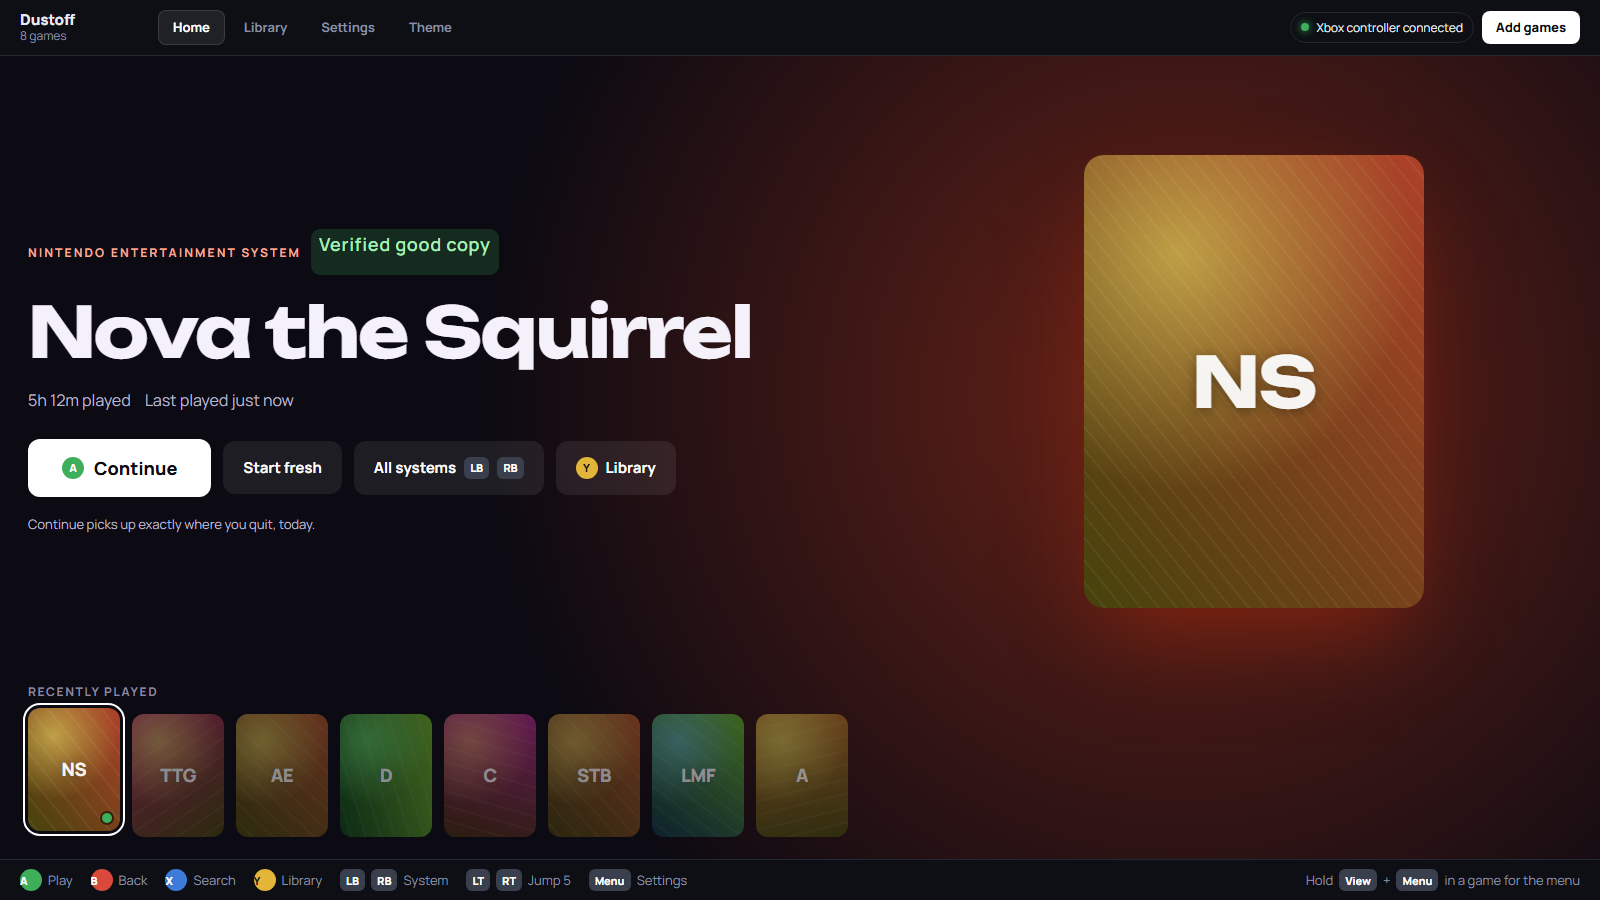
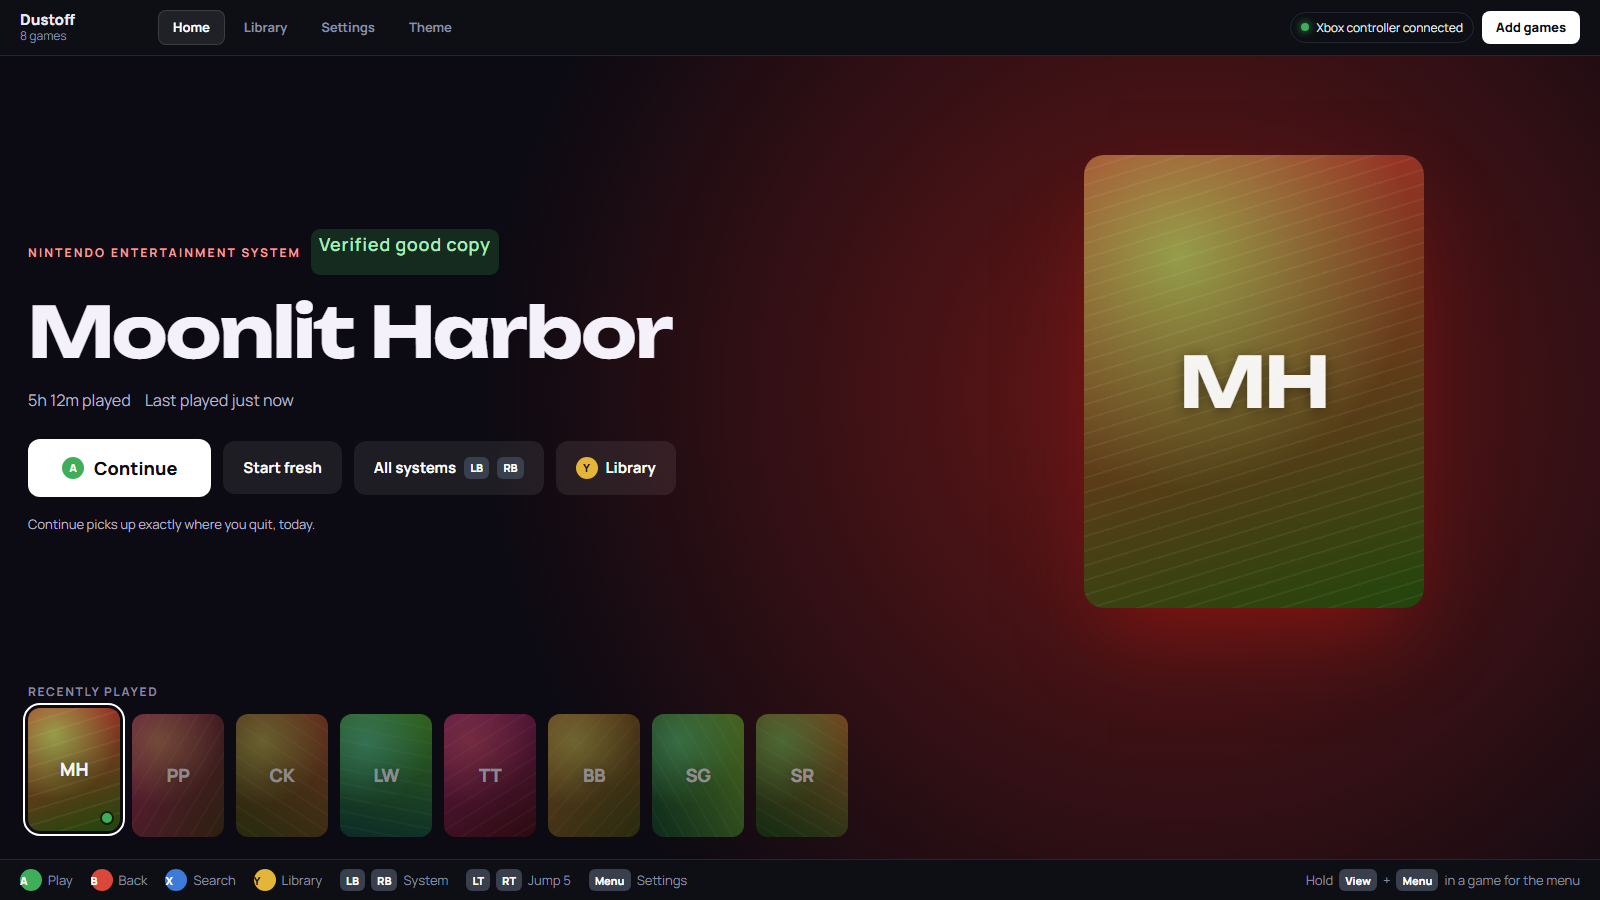
Use a made-up sample library in screenshots

diff --git a/README.md b/README.md
@@ -15,7 +15,7 @@ Drop in your games and play. Dustoff is a free, controller-first launcher for cl
   </tr>
 </table>
 
-<sub>Screenshots show free homebrew games.</sub>
+<sub>Screenshots show a sample library with made-up games.</sub>
 
 ## What it does
 
